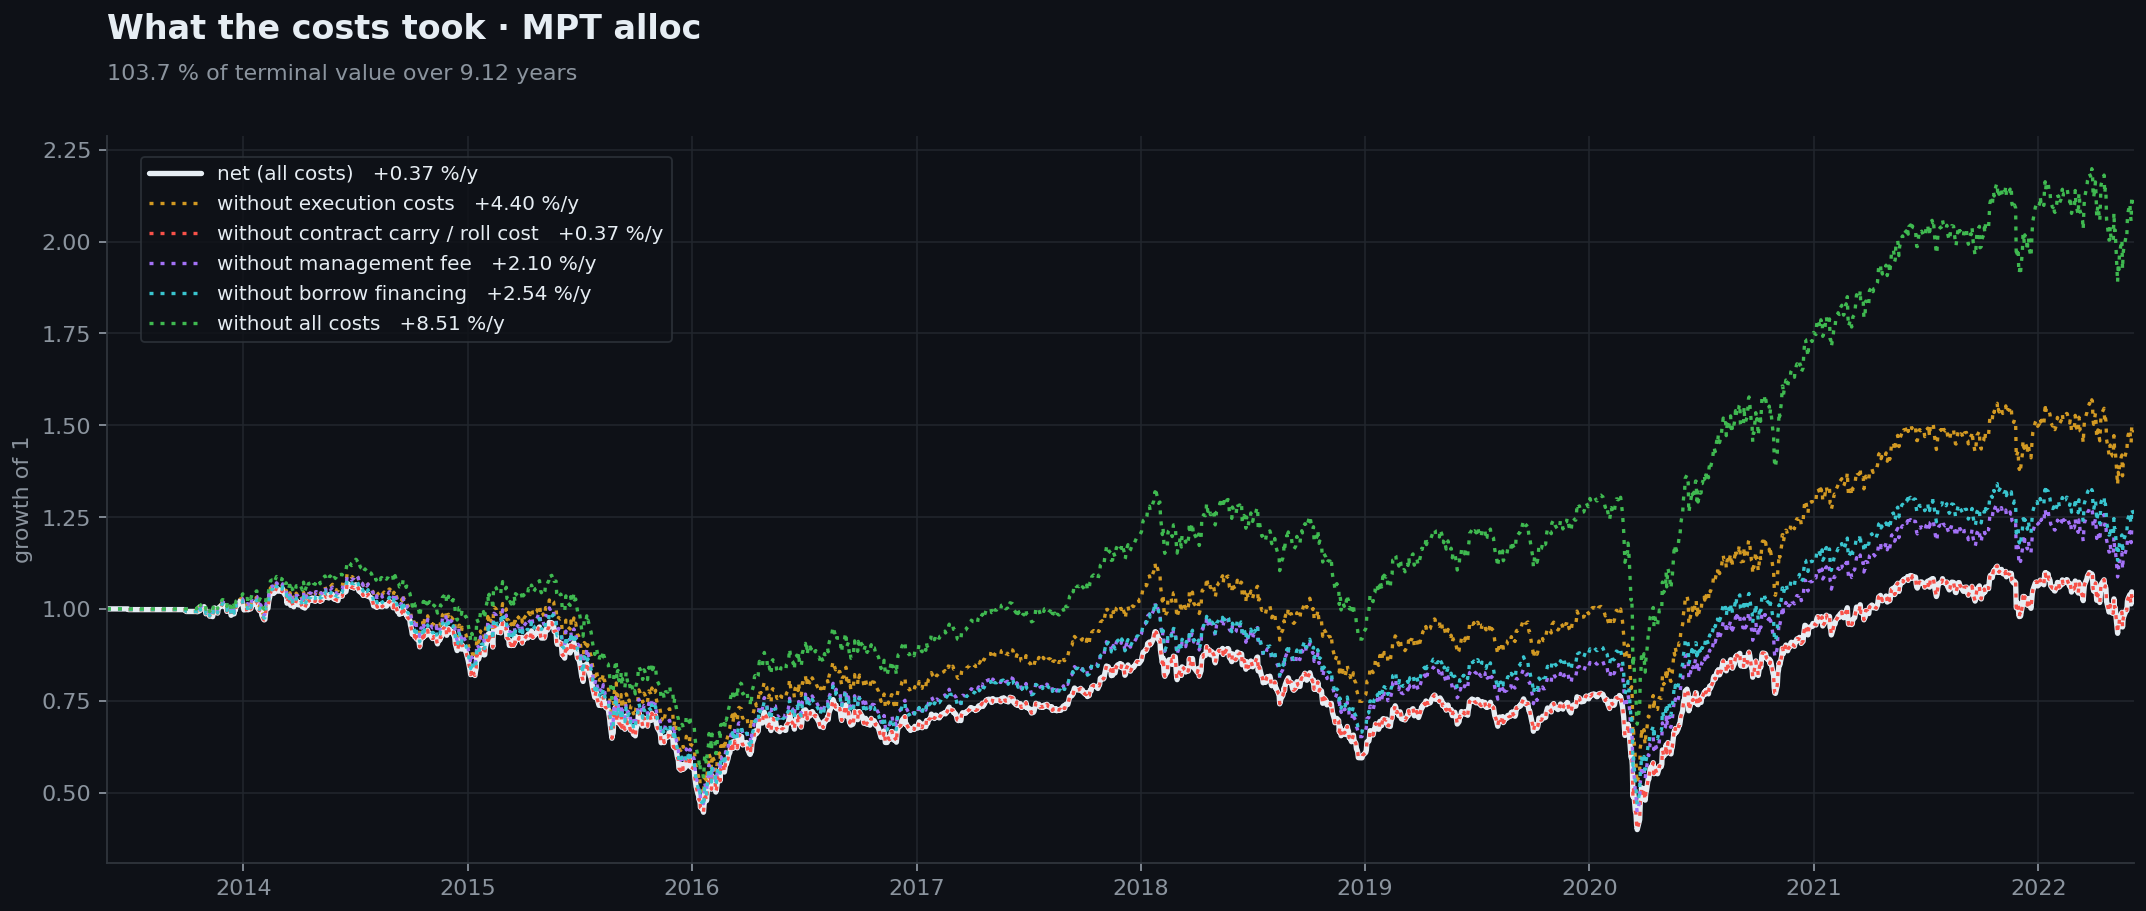
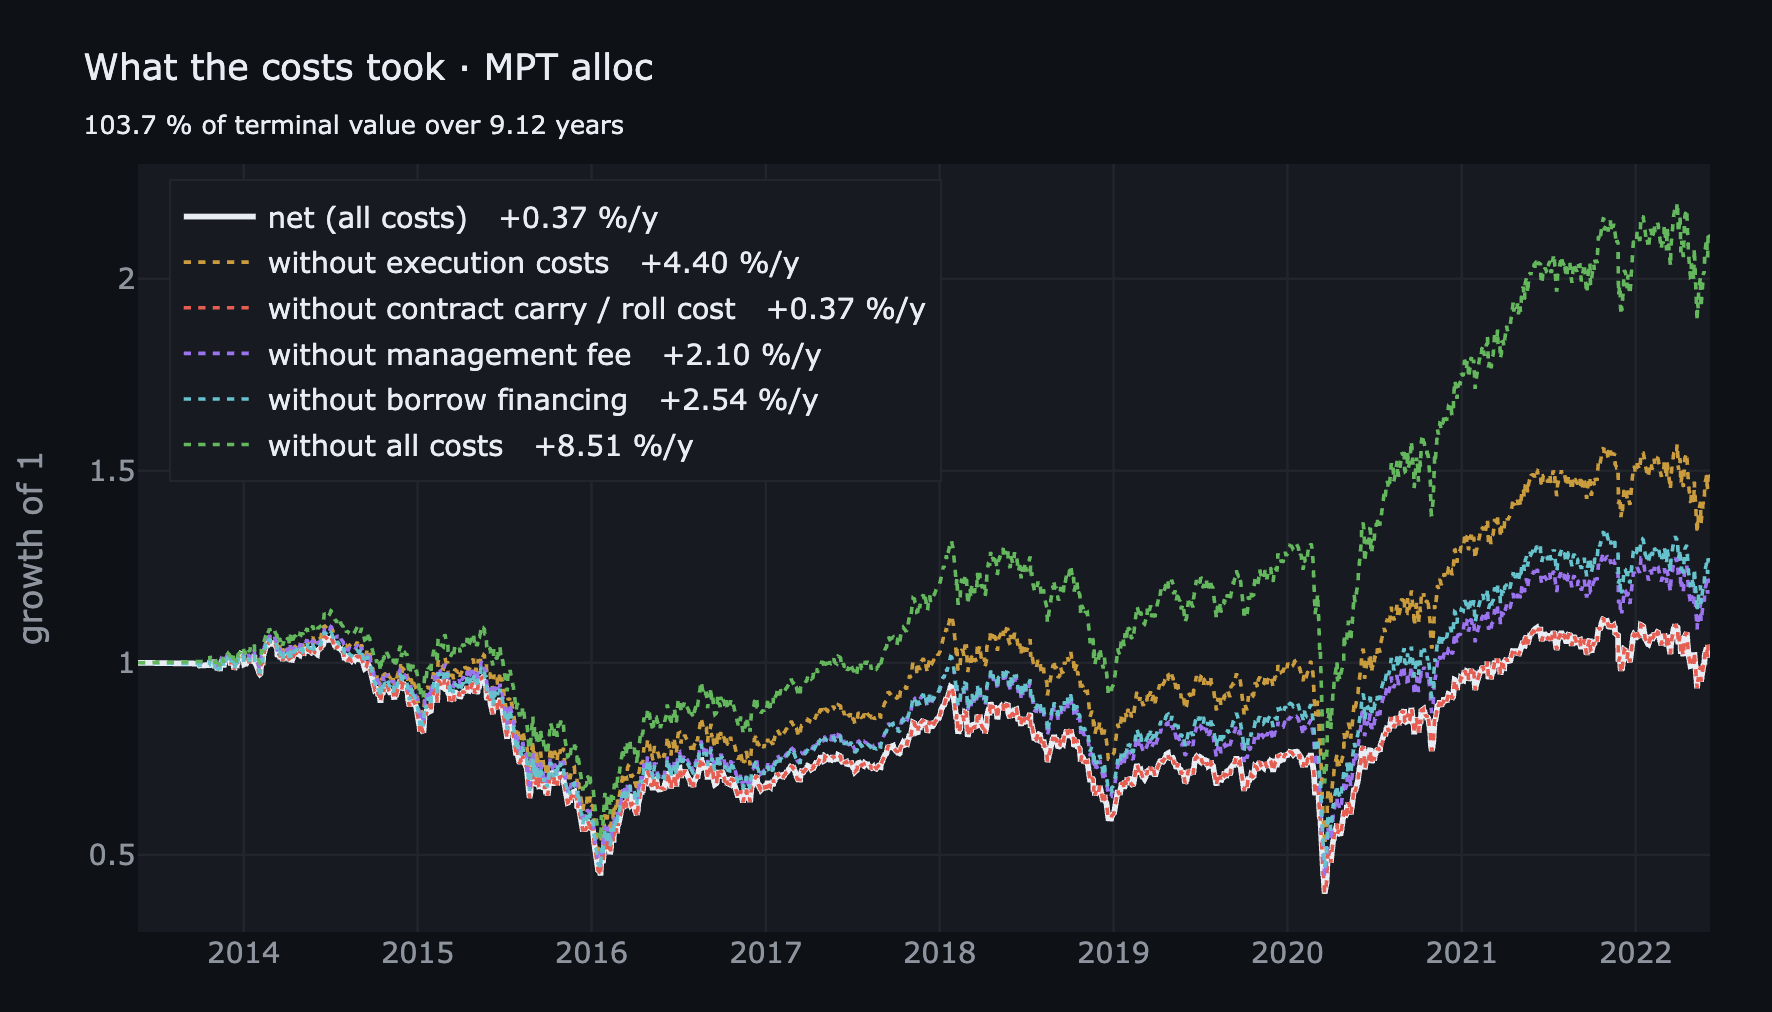
Restore engine cost and verdict visuals

diff --git a/docs/engine/index.html b/docs/engine/index.html
@@ -532,7 +532,7 @@ button{font:inherit}
 
   <section id="execution-costs">
     <div class="shead"><span class="snum">05</span><span class="stitle">Ce que les coûts prennent</span></div>
-    <h2>Chaque débit est rapproché jusqu'à la NAV</h2>
+    <h2>Le même portefeuille, avec et sans chaque couche</h2>
     <p>
       Les coûts d'exécution ne sont plus une déclaration sans effet dans le mode allocation.
       Spread, commission, taxe, impact résiduel et slippage sont rapprochés sur les jambes
@@ -540,6 +540,25 @@ button{font:inherit}
       Sur ce run avec watcher, ils retirent ensemble <b>3 606,69</b>, soit <b>3,6068 %</b> du
       capital initial de 100 000.
     </p>
+    <figure>
+      <img src="../img/engine-cost-cascade.png" alt="NAV nette et trajectoires sans chaque couche de coût sur le run moteur" loading="lazy">
+      <figcaption>
+        <b>Une couche à la fois, sur le chemin effectivement observé.</b> Le run produit
+        +0,40 %/an net. Réintégrer seulement les coûts d'exécution donne +0,80 %/an ; retirer
+        le carry de contrat change à peine la courbe ; sans frais de gestion, elle atteint
+        +2,23 %/an ; sans financement de l'emprunt, +1,79 %/an. Sans aucun coût, le même chemin
+        ressort à +4,06 %/an. Les coûts représentent 38,5 % de la valeur terminale sur 9,12 ans.
+      </figcaption>
+    </figure>
+    <figure>
+      <img src="../img/engine-cost-drag.png" alt="Accumulation des frais de gestion, intérêts d'emprunt et coûts d'exécution" loading="lazy">
+      <figcaption>
+        <b>Le registre des débits explicites, cumulé puis ventilé par année.</b> Les frais de
+        gestion et le financement dominent ce run ; la ligne violette retrace les débits
+        d'exécution du kernel. Le slippage mesuré n'est pas ajouté à ce registre de cash : il
+        mord déjà dans le prix de fill et apparaît dans le tableau et dans la cascade.
+      </figcaption>
+    </figure>
     <div class="tw cost-table">
       <table>
         <caption>Coûts par actif — devise du compte, capital initial 100 000</caption>
@@ -561,7 +580,11 @@ button{font:inherit}
       qui réintègre une couche à la fois sur une trajectoire fixe.
     </p>
     <div class="crosslink">
-      <p><a href="../costs/">Voir la chaîne complète, de la spec à la NAV nette →</a></p>
+      <p>
+        La configuration complète, la convention des contrats, le slippage et la lecture des
+        deux graphiques sont détaillés séparément.
+      </p>
+      <p><a href="../costs/">Lire la page consacrée aux frais de transaction →</a></p>
     </div>
   </section>
 
@@ -569,15 +592,39 @@ button{font:inherit}
     <div class="shead"><span class="snum">06</span><span class="stitle">Le verdict de ce run</span></div>
     <h2>Le verdict du moteur sur ce run</h2>
     <figure>
-      <img src="../img/11-performance-carrier.png" alt="Résumé du run et verdict BELOW_RISK_FREE" loading="lazy">
+      <img src="../img/engine-verdict-1.png" alt="Appel du moteur et première partie du résumé du run" loading="lazy">
       <figcaption>
-        <b>Le run montré plus haut, jugé : une statistique favorable, contredite par un test
-        économique.</b> Le PSR ressort à 100 % et la longueur de piste requise est largement
-        dépassée, ce qui passerait pour un succès. Le seuil d'aversion au risque γ* est
-        pourtant négatif, et le verdict tombe : <code>BELOW_RISK_FREE</code>, un actif sans
-        risque à 4 % fait mieux dès γ = 0. Le porteur mesuré est indiqué en tête,
-        <code>portfolio_equity(nav−borrowed)</code>, parce que lire la mauvaise série donnerait
-        un résultat faux sans en avoir l'air.
+        <b>Le run et son porteur sont identifiés avant le verdict.</b> 2 298 observations,
+        9 ans et 30 décisions, lus sur <code>portfolio_equity(nav−borrowed)</code>. Le Sharpe
+        corrigé de l'autocorrélation vaut 0,09, avec un intervalle de Lo à 95 % de
+        [−0,50 ; 0,68].
+      </figcaption>
+    </figure>
+    <figure>
+      <img src="../img/engine-verdict-2.png" alt="Deuxième partie du résumé du run et verdict BELOW_RISK_FREE" loading="lazy">
+      <figcaption>
+        <b>Une garde statistique favorable ne suffit pas à sauver un résultat économiquement
+        faible.</b> Le PSR ressort à 100 % et le MinTRL demande 288 observations contre 2 298
+        disponibles. Pourtant, avec un CAGR de +0,42 % et un drawdown de −43,43 %, l'équivalent
+        certain devient négatif dès γ = 3. Le seuil γ* est inférieur à zéro : l'actif sans
+        risque à 4 % gagne dès γ = 0. Verdict <code>BELOW_RISK_FREE</code>.
+      </figcaption>
+    </figure>
+    <figure>
+      <img src="../img/engine-verdict-3.png" alt="Registre d'emprunt et frais payés sur le run" loading="lazy">
+      <figcaption>
+        <b>Le verdict est relié aux écritures qui l'ont produit.</b> Le levier brut culmine à
+        1,657× ; onze tirages d'emprunt coûtent 0,125008, neuf sont refermés ou expirent, et les
+        frais de gestion totalisent 0,163899. Aucun appel de marge n'est enregistré.
+      </figcaption>
+    </figure>
+    <figure>
+      <img src="../img/engine-verdict-4.png" alt="NAV, equity nette de l'emprunt et drawdown du run moteur" loading="lazy">
+      <figcaption>
+        <b>La trajectoire qui se trouve derrière le tableau.</b> La NAV brute termine à 1,4534,
+        mais l'equity nette de l'emprunt à 1,0383. Les marqueurs montrent les trente
+        rebalancements, les actions intra-période et les ouvertures ou fermetures d'emprunt ; le
+        panneau inférieur matérialise le drawdown maximal de 43,43 %.
       </figcaption>
     </figure>
   </section>
@@ -601,7 +648,7 @@ button{font:inherit}
     <div class="note">
       <p>
         <b>Deux runs distincts, et il ne faut pas les confondre.</b> Les sections 01 à 06
-        viennent du run avec emprunt et watcher : 30 décisions, drawdown maximal de 40,95 %.
+        viennent du run avec emprunt et watcher : 30 décisions, drawdown maximal de 43,43 %.
         Les trois appels ci-dessous ont été passés sur un autre run, la même stratégie sans
         emprunt, sans watcher et sans spec de devises : 46 décisions, drawdown maximal de
         24,76 %. Le registre de trésorerie et la série de mesure y sont les mêmes ; ce
@@ -882,7 +929,7 @@ button{font:inherit}
 
   <section id="execution-costs-en">
     <div class="shead"><span class="snum">05</span><span class="stitle">What the costs took</span></div>
-    <h2>Every debit is reconciled through to NAV</h2>
+    <h2>The same portfolio, with and without each layer</h2>
     <p>
       Execution costs are no longer declarations without effect in allocation mode. Spread,
       commission, tax, residual impact and slippage are reconciled against the legs that were
@@ -890,6 +937,25 @@ button{font:inherit}
       with a watcher, they remove <b>3,606.69</b> in total, or <b>3.6068 %</b> of the initial
       capital of 100,000.
     </p>
+    <figure>
+      <img src="../img/engine-cost-cascade.png" alt="Net NAV and paths without each cost layer on the engine run" loading="lazy">
+      <figcaption>
+        <b>One layer at a time, on the path that was actually observed.</b> The run produces
+        +0.40 %/year net. Adding back execution costs alone gives +0.80 %/year; removing
+        contract carry barely changes the path; without management fees it reaches
+        +2.23 %/year; without borrow financing, +1.79 %/year. Without any cost, the same path
+        returns +4.06 %/year. Costs represent 38.5 % of terminal value over 9.12 years.
+      </figcaption>
+    </figure>
+    <figure>
+      <img src="../img/engine-cost-drag.png" alt="Accumulation of management fees, borrow interest and execution costs" loading="lazy">
+      <figcaption>
+        <b>The ledger of explicit debits, accumulated and then split by year.</b> Management
+        fees and financing dominate this run; the purple line records kernel execution debits.
+        Measured slippage is not added to this cash ledger: it already bites through the fill
+        price and appears in the table and the cascade.
+      </figcaption>
+    </figure>
     <div class="tw cost-table">
       <table>
         <caption>Costs by asset — account currency, initial capital 100,000</caption>
@@ -910,7 +976,11 @@ button{font:inherit}
       publishes the specification, the reconciliation in two units, and the fixed-path cascade.
     </p>
     <div class="crosslink">
-      <p><a href="../costs/">Read the full cost chain, from specification to net NAV (FR) →</a></p>
+      <p>
+        The full configuration, contract conventions, slippage and both charts are documented
+        separately.
+      </p>
+      <p><a href="../costs/">Read the transaction-cost page (FR) →</a></p>
     </div>
   </section>
 
@@ -918,15 +988,37 @@ button{font:inherit}
     <div class="shead"><span class="snum">06</span><span class="stitle">This run's verdict</span></div>
     <h2>What the engine reports on this run</h2>
     <figure>
-      <img src="../img/11-performance-carrier.png" alt="Performance carrier report, BELOW_RISK_FREE verdict" loading="lazy">
+      <img src="../img/engine-verdict-1.png" alt="Engine call and first part of the run summary" loading="lazy">
       <figcaption>
-        <b>The run shown above, judged: a favourable statistic, overruled by an economic
-        test.</b> The PSR comes out at 100 % and the required track length is far exceeded,
-        which would read as a pass. Yet the risk-aversion threshold γ* is negative, and the
-        verdict lands: <code>BELOW_RISK_FREE</code>, a 4 % risk-free asset does better from
-        γ = 0. The measured carrier is stated at the top,
-        <code>portfolio_equity(nav−borrowed)</code>, because reading the wrong series would be
-        wrong without looking wrong.
+        <b>The run and its carrier are identified before the verdict.</b> 2,298 observations,
+        9 years and 30 decisions, read from <code>portfolio_equity(nav−borrowed)</code>. The
+        autocorrelation-corrected Sharpe is 0.09, with a 95 % Lo interval of [−0.50; 0.68].
+      </figcaption>
+    </figure>
+    <figure>
+      <img src="../img/engine-verdict-2.png" alt="Second part of the run summary and BELOW_RISK_FREE verdict" loading="lazy">
+      <figcaption>
+        <b>A favourable statistical guard cannot rescue a weak economic result.</b> PSR is
+        100 % and MinTRL requires 288 observations against 2,298 available. Yet a +0.42 % CAGR
+        with a −43.43 % drawdown makes the certainty equivalent negative from γ = 3. The γ*
+        threshold is below zero: the 4 % risk-free asset wins from γ = 0. Verdict
+        <code>BELOW_RISK_FREE</code>.
+      </figcaption>
+    </figure>
+    <figure>
+      <img src="../img/engine-verdict-3.png" alt="Borrow ledger and fees paid on the run" loading="lazy">
+      <figcaption>
+        <b>The verdict is tied back to the entries that produced it.</b> Gross leverage peaks
+        at 1.657×; eleven borrow draws cost 0.125008, nine close or expire, and management fees
+        total 0.163899. No margin call is recorded.
+      </figcaption>
+    </figure>
+    <figure>
+      <img src="../img/engine-verdict-4.png" alt="NAV, equity net of borrowing and drawdown on the engine run" loading="lazy">
+      <figcaption>
+        <b>The path behind the table.</b> Gross NAV ends at 1.4534, while equity net of
+        borrowing ends at 1.0383. Markers identify the thirty rebalances, intra-period actions,
+        and borrow opens or closes; the lower panel shows the 43.43 % maximum drawdown.
       </figcaption>
     </figure>
   </section>
@@ -950,7 +1042,7 @@ button{font:inherit}
     <div class="note">
       <p>
         <b>Two separate runs, and they must not be conflated.</b> Sections 01 to 06 come from
-        the run with borrowing and a watcher: 30 decisions, 40.95 % maximum drawdown. The three
+        the run with borrowing and a watcher: 30 decisions, 43.43 % maximum drawdown. The three
         calls below were made against a different run, the same strategy with no borrowing, no
         watcher and no currency spec: 46 decisions, 24.76 % maximum drawdown. The cash ledger
         and the performance carrier are the same there; what changes is that no leverage, no

diff --git a/docs/costs/index.html b/docs/costs/index.html
@@ -167,8 +167,25 @@ footer{border-top:3px solid var(--hard);margin-top:3.5rem;padding-top:1.1rem;dis
       <div class="layer"><div class="t">Financement</div><p>Intérêts de l'emprunt indexés sur une série de taux overnight, séparés du carry des contrats.</p></div>
     </div>
 
+    <figure>
+      <img src="../img/costs-slippage-spec.png" alt="Configuration du slippage dynamique commun aux actifs" loading="lazy">
+      <figcaption>
+        <b>Le slippage est une politique d'exécution, pas un pourcentage ajouté après le
+        backtest.</b> Le modèle utilise la range récente, peut être modulé par l'ATR et le volume,
+        et s'applique ici aux rebalancements avec un déplacement défavorable du prix de fill.
+      </figcaption>
+    </figure>
+    <figure>
+      <img src="../img/costs-execution-assets.png" alt="Contrats et coûts d'exécution déclarés par actif" loading="lazy">
+      <figcaption>
+        <b>La convention du contrat précède le coût.</b> Taille du contrat, lot minimal, pas de
+        lot, tick et devise de cotation déterminent la quantité réellement négociable. Spread,
+        commission, taxe et carry sont ensuite déclarés actif par actif.
+      </figcaption>
+    </figure>
+
     <div class="raw">
-      <div class="lbl">Extrait de la politique déclarée</div>
+      <div class="lbl">Version abrégée de la politique déclarée</div>
 <pre>execution_costs = ExecutionCostSpec(
     product_type="spot", kernel_settlement="charge",
     slippage=SlippageSpec(
@@ -277,6 +294,16 @@ fees = PortfolioFeeSpec(
       punitive, le run passe de +8,51 %/an sans aucune couche à +0,37 %/an net. La figure sert à
       vérifier la propagation des coûts, pas à proposer une hypothèse réaliste de rendement.
     </p>
+    <figure>
+      <img src="../img/costs-allocation-cost-drag.png" alt="Accumulation des frais de gestion, intérêts d'emprunt et débits d'exécution sur le run de démonstration" loading="lazy">
+      <figcaption>
+        <b>Ce graphique et la cascade répondent à deux questions différentes.</b> Ici, les
+        courbes cumulent les débits explicites du registre : frais de gestion, intérêts et
+        coûts d'exécution facturés par le kernel. Le slippage mesuré n'est pas ajouté à la ligne
+        violette, puisqu'il a déjà dégradé le prix de fill. La cascade ci-dessus mesure, elle,
+        l'effet économique complet sur la trajectoire, slippage compris.
+      </figcaption>
+    </figure>
   </section>
 
   <section>

diff --git a/docs/img/README.md b/docs/img/README.md
@@ -18,12 +18,18 @@ plafonné à 965 px, donc jamais agrandies non plus.
 | `08-accounting-audit.png` | Bilan comptable, 4 panneaux, `4.44e-16` | `..._comptale1` (bas) + `..._comptale2` (haut) |
 | `09-cost-layers.png` | Ancienne cascade, conservée comme archive mais retirée de la page moteur | `Cost_cascade` + `..._comptale2` (bas) |
 | `10-validation-calls.png` | Baseline naïve, purchasing power, thresholds | `validation_baseline1/_2/3` |
-| `11-performance-carrier.png` | Run + résumé alloc, verdict `BELOW_RISK_FREE` | `Run function + alloc_audit` + `...2` |
+| `11-performance-carrier.png` | Ancien résumé du run, conservé comme archive mais retiré de la page moteur | `Run function + alloc_audit` + `...2` |
 | `12-engine-run.png` | `NJITEngine` avec `simple_oos(0.30)` | `engine_run_OOS` |
 | `13-null-sizing.png` | Null de sizing, attribution, N_eff | `Null_Sizing1/2/_3` |
 | `14-null-leverage.png` | Null de levier, frontière atteignable | `validation_null_levreage` (1337 px natifs) |
 | `16-overnight-rate.png` | Courbe SOFR/DFF lue par le kernel | `courbe_des_taux` |
-| `costs-cascade.png` | Cascade courante : exécution, carry/roll, frais de gestion et financement séparés | sortie Plotly enregistrée dans `pia_valid.ipynb` |
+| `costs-cascade.png` | Cascade du run coûts : exécution, carry/roll, frais de gestion et financement séparés | `SS4html/costs/cascades.png` |
+| `costs-allocation-cost-drag.png` | Débits cumulés et annuels du run coûts | `SS4html/costs/Allocation_cost_drag.png` |
+| `costs-slippage-spec.png` | Politique de slippage dynamique | `SS4html/costs/execspec = slipage_spec.png` |
+| `costs-execution-assets.png` | Contrats, spreads, commissions, taxe et carry par actif | `SS4html/costs/execspec = contract spec, carry, tax, .png` |
+| `engine-cost-cascade.png` | Cascade du run moteur avec watcher | `SS4html/maj_moteur/nouvelle cascade.png` |
+| `engine-cost-drag.png` | Débits cumulés et annuels du run moteur | `SS4html/maj_moteur/nouveau_cost_drag.png` |
+| `engine-verdict-1.png` à `engine-verdict-4.png` | Run, résumé, verdict et trajectoire actualisés | `SS4html/maj_moteur/new_verdict_1.png`, `nv_2.png`, `nv3.png`, `nv_4.png` |
 
 ## Encore à capturer
 
